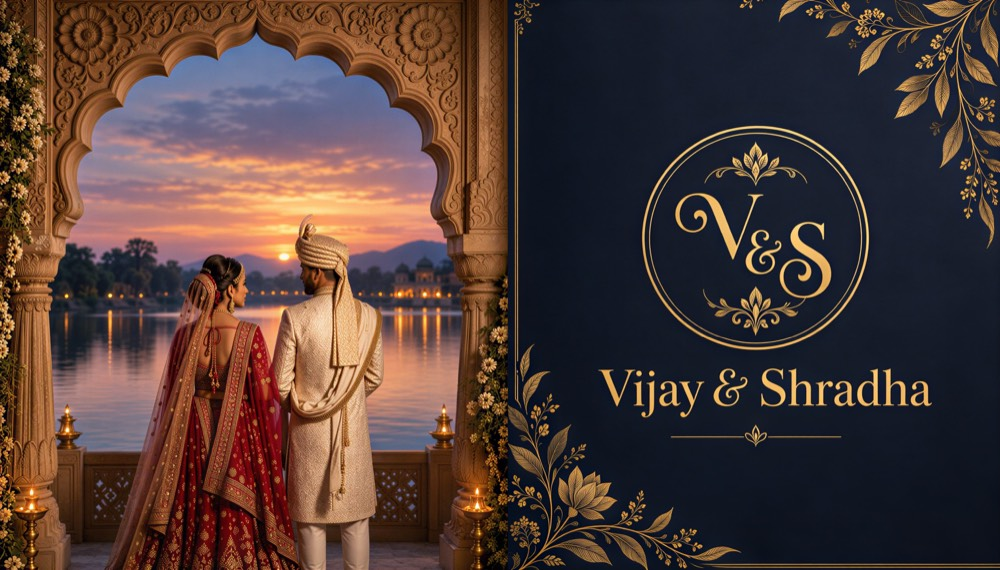
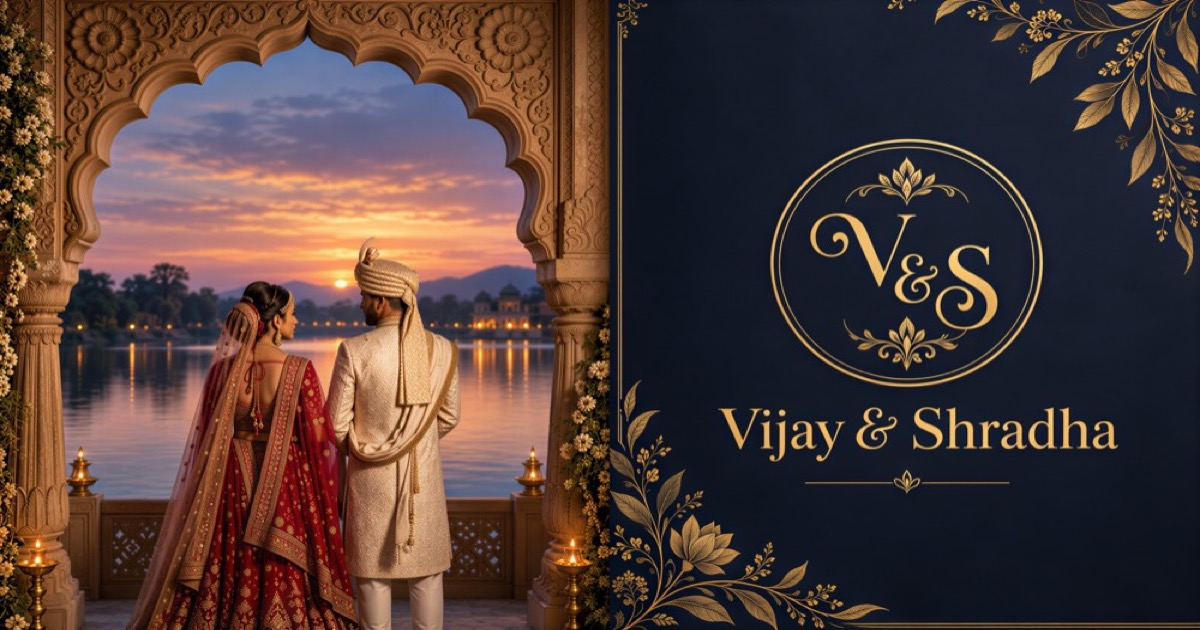
Resize og image to 1200x630 and trim description

diff --git a/dist/index.html b/dist/index.html
@@ -9,12 +9,18 @@
     <meta name="title" content="Vijay & Shradha | Wedding Invitation" />
     <meta name="description" content="Welcome to Rajamahendravaram. We cordially solicit your gracious presence on the auspicious occasion of our wedding." />
 
-    <!-- Open Graph / Facebook / WhatsApp -->
+    <!-- Open Graph / WhatsApp -->
     <meta property="og:type" content="website" />
     <meta property="og:site_name" content="Vijay & Shradha Wedding" />
     <meta property="og:url" content="https://vijay-sradha-invite.vercel.app/" />
     <meta property="og:title" content="Vijay & Shradha | Wedding Invitation" />
-    <meta property="og:description" content="Carved doors swing open at dusk onto a courtyard glowing with diyas. Join us in celebration on Dec 3, 2026, at J.K. Gardens, Rajahmundry. Tap to open the digital invite." />
+    <meta property="og:description" content="Join us in celebration on Dec 3, 2026, at J.K. Gardens, Rajahmundry. Tap to open the digital invite." />
+    
+    <meta property="og:image" content="https://vijay-sradha-invite.vercel.app/images/whatsapp-preview.jpg" />
+    <meta property="og:image:secure_url" content="https://vijay-sradha-invite.vercel.app/images/whatsapp-preview.jpg" />
+    <meta property="og:image:type" content="image/jpeg" />
+    <meta property="og:image:width" content="1200" />
+    <meta property="og:image:height" content="630" />
     
     <!-- ABSOLUTE URL REQUIRED FOR WHATSAPP IMAGE -->
     <meta property="og:image" itemprop="image" content="https://vijay-sradha-invite.vercel.app/images/whatsapp-preview.jpg" />

diff --git a/index.html b/index.html
@@ -9,12 +9,18 @@
     <meta name="title" content="Vijay & Shradha | Wedding Invitation" />
     <meta name="description" content="Welcome to Rajamahendravaram. We cordially solicit your gracious presence on the auspicious occasion of our wedding." />
 
-    <!-- Open Graph / Facebook / WhatsApp -->
+    <!-- Open Graph / WhatsApp -->
     <meta property="og:type" content="website" />
     <meta property="og:site_name" content="Vijay & Shradha Wedding" />
     <meta property="og:url" content="https://vijay-sradha-invite.vercel.app/" />
     <meta property="og:title" content="Vijay & Shradha | Wedding Invitation" />
-    <meta property="og:description" content="Carved doors swing open at dusk onto a courtyard glowing with diyas. Join us in celebration on Dec 3, 2026, at J.K. Gardens, Rajahmundry. Tap to open the digital invite." />
+    <meta property="og:description" content="Join us in celebration on Dec 3, 2026, at J.K. Gardens, Rajahmundry. Tap to open the digital invite." />
+    
+    <meta property="og:image" content="https://vijay-sradha-invite.vercel.app/images/whatsapp-preview.jpg" />
+    <meta property="og:image:secure_url" content="https://vijay-sradha-invite.vercel.app/images/whatsapp-preview.jpg" />
+    <meta property="og:image:type" content="image/jpeg" />
+    <meta property="og:image:width" content="1200" />
+    <meta property="og:image:height" content="630" />
     
     <!-- ABSOLUTE URL REQUIRED FOR WHATSAPP IMAGE -->
     <meta property="og:image" itemprop="image" content="https://vijay-sradha-invite.vercel.app/images/whatsapp-preview.jpg" />
